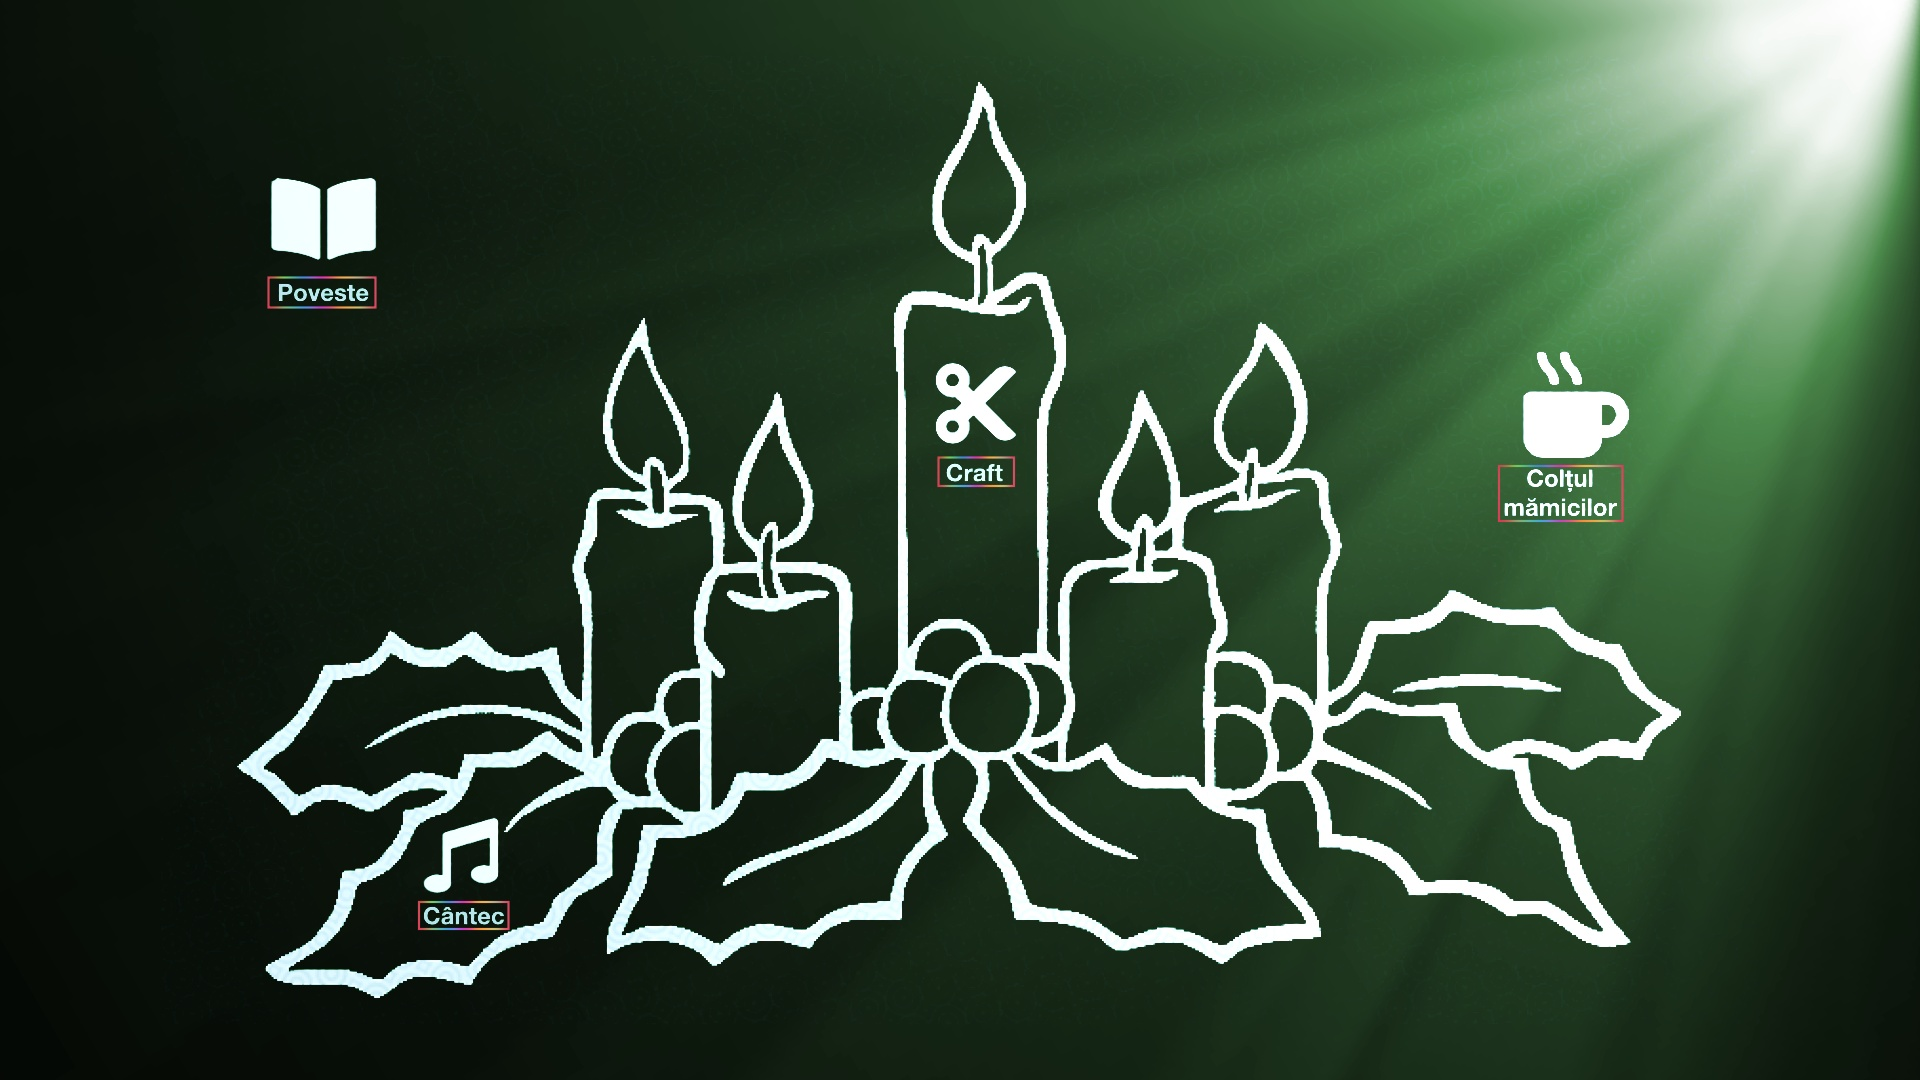
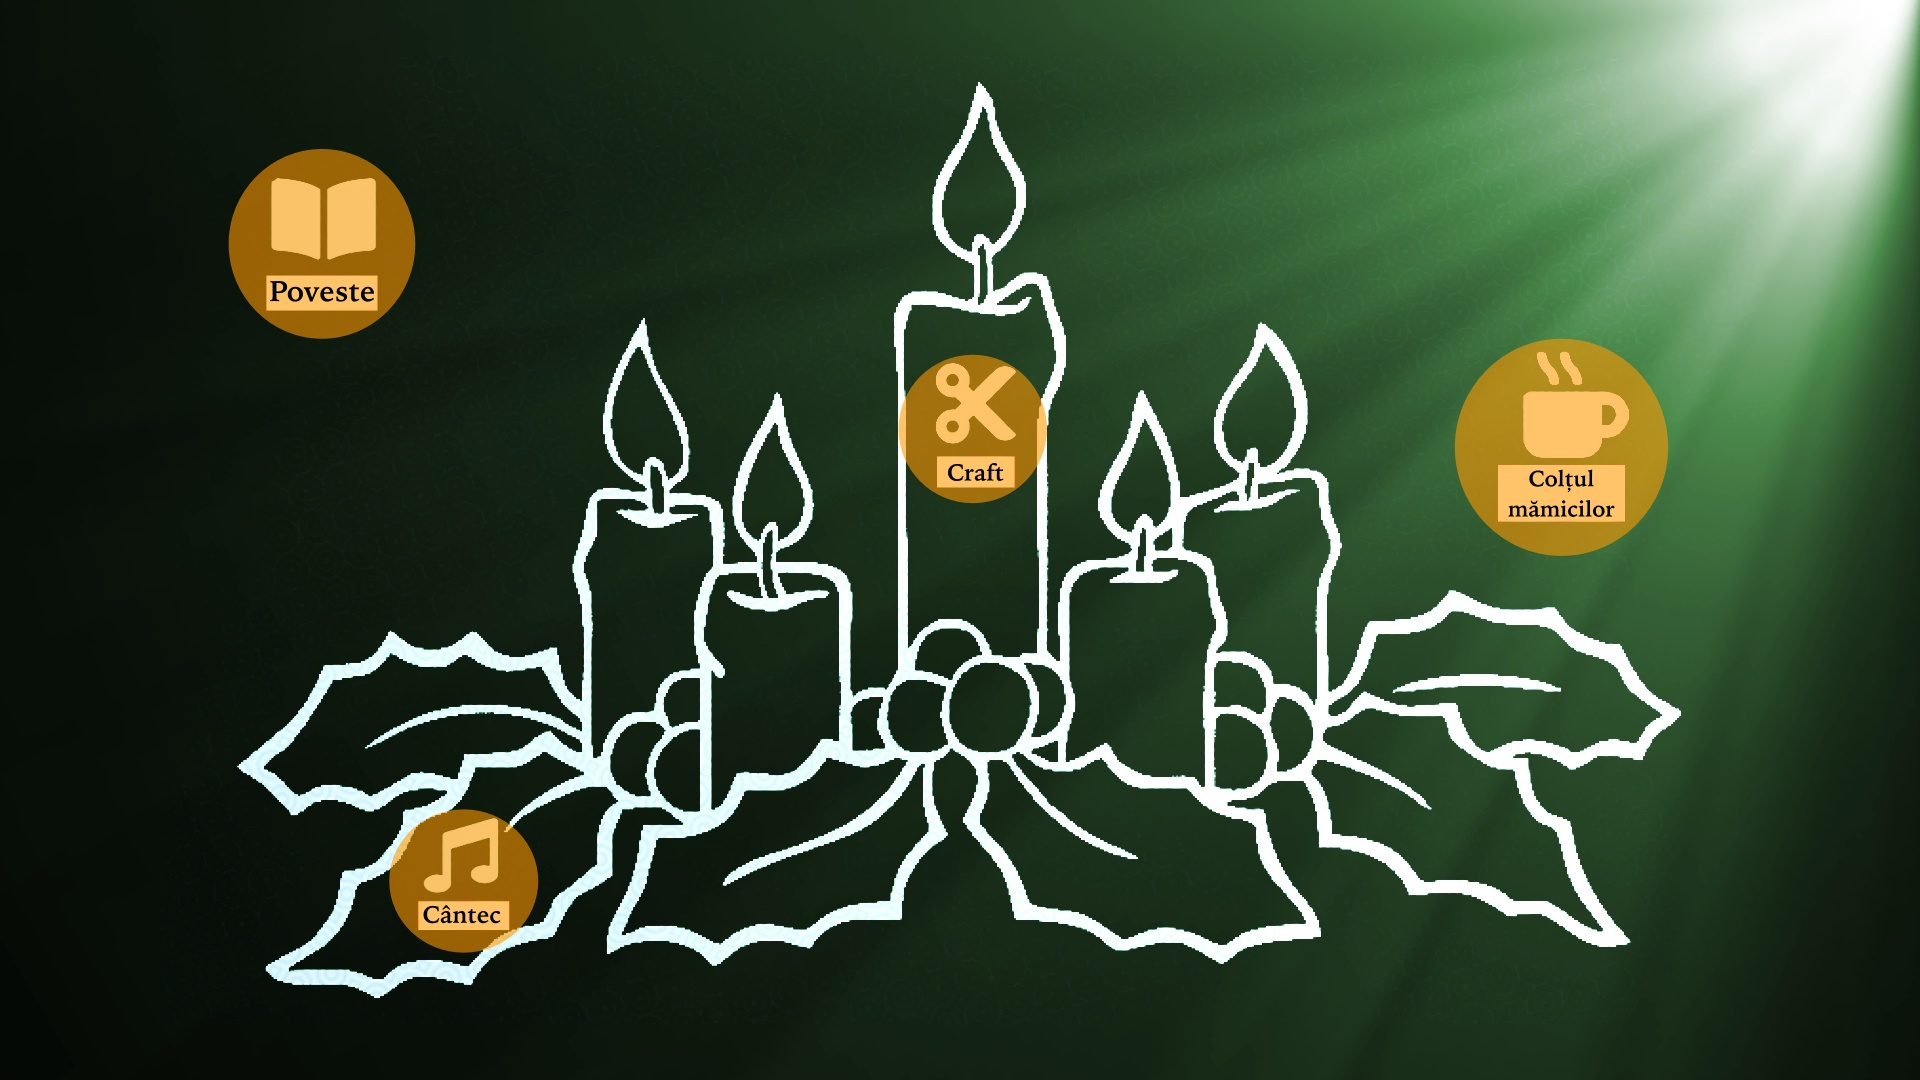
day bg change;

diff --git a/src/app/components/calendar/calendar.component.ts b/src/app/components/calendar/calendar.component.ts
@@ -37,29 +37,29 @@ export class CalendarComponent implements OnInit {
   }
 
   days = [
-    { id: 1, src: '../../../assets/images/vecteezy.jpg' },
-    { id: 2, src: '../../../assets/images/vecteezy.jpg' },
-    { id: 3, src: '../../../assets/images/vecteezy.jpg' },
-    { id: 4, src: '../../../assets/images/vecteezy.jpg' },
-    { id: 5, src: '../../../assets/images/vecteezy.jpg' },
-    { id: 6, src: '../../../assets/images/vecteezy.jpg' },
-    { id: 7, src: '../../../assets/images/vecteezy.jpg' },
-    { id: 8, src: '../../../assets/images/vecteezy.jpg' },
-    { id: 9, src: '../../../assets/images/vecteezy.jpg' },
-    { id: 10, src: '../../../assets/images/vecteezy.jpg' },
-    { id: 11, src: '../../../assets/images/vecteezy.jpg' },
-    { id: 12, src: '../../../assets/images/vecteezy.jpg' },
-    { id: 13, src: '../../../assets/images/vecteezy.jpg' },
-    { id: 14, src: '../../../assets/images/vecteezy.jpg' },
-    { id: 15, src: '../../../assets/images/vecteezy.jpg' },
-    { id: 16, src: '../../../assets/images/vecteezy.jpg' },
-    { id: 17, src: '../../../assets/images/vecteezy.jpg' },
-    { id: 18, src: '../../../assets/images/vecteezy.jpg' },
-    { id: 19, src: '../../../assets/images/vecteezy.jpg' },
-    { id: 20, src: '../../../assets/images/vecteezy.jpg' },
-    { id: 21, src: '../../../assets/images/vecteezy.jpg' },
-    { id: 22, src: '../../../assets/images/vecteezy.jpg' },
-    { id: 23, src: '../../../assets/images/vecteezy.jpg' },
-    { id: 24, src: '../../../assets/images/vecteezy.jpg' },
+    { id: 1},
+    { id: 2},
+    { id: 3},
+    { id: 4},
+    { id: 5},
+    { id: 6},
+    { id: 7},
+    { id: 8},
+    { id: 9},
+    { id: 10},
+    { id: 11},
+    { id: 12},
+    { id: 13},
+    { id: 14},
+    { id: 15},
+    { id: 16},
+    { id: 17},
+    { id: 18},
+    { id: 19},
+    { id: 20},
+    { id: 21},
+    { id: 22},
+    { id: 23},
+    { id: 24},
   ];
 }

diff --git a/src/app/components/calendar/calendar.component.scss b/src/app/components/calendar/calendar.component.scss
@@ -1,6 +1,6 @@
 #card {
     /* The image used */
-    background-image: url("../../../assets/images/vecteezy.jpg");
+    background-image: url("../../../assets/images/vecteezy4.jpg");
 
     /* Center and scale the image nicely */
     background-position: center;
@@ -26,7 +26,7 @@
     border: white solid 1px;
     border-radius: 50%;
     margin: 0.3em 0.2em;
-
+    box-shadow: 1.0px 4.0px 8.0px hsl(60deg 70% 0% / 10.78);
     cursor: pointer;
 }
 .text {
